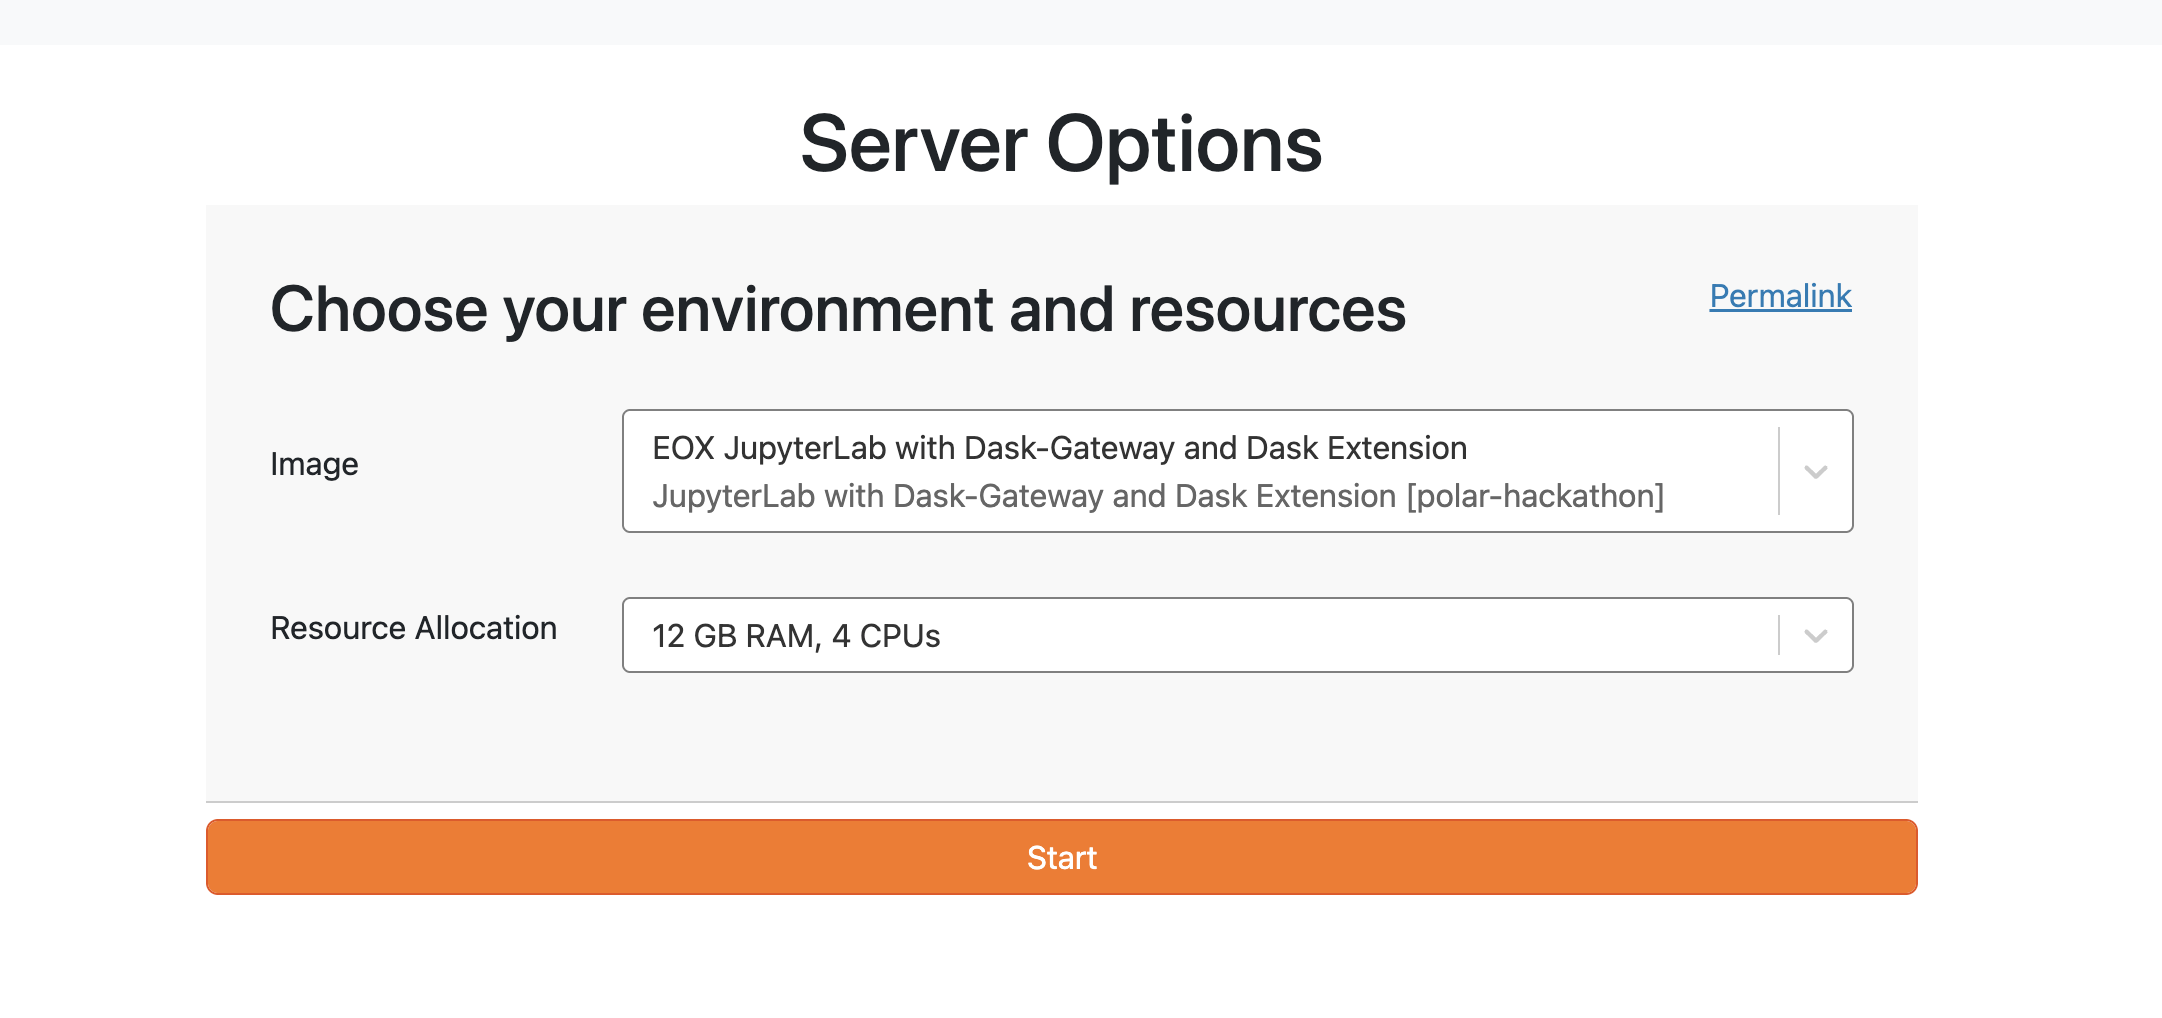
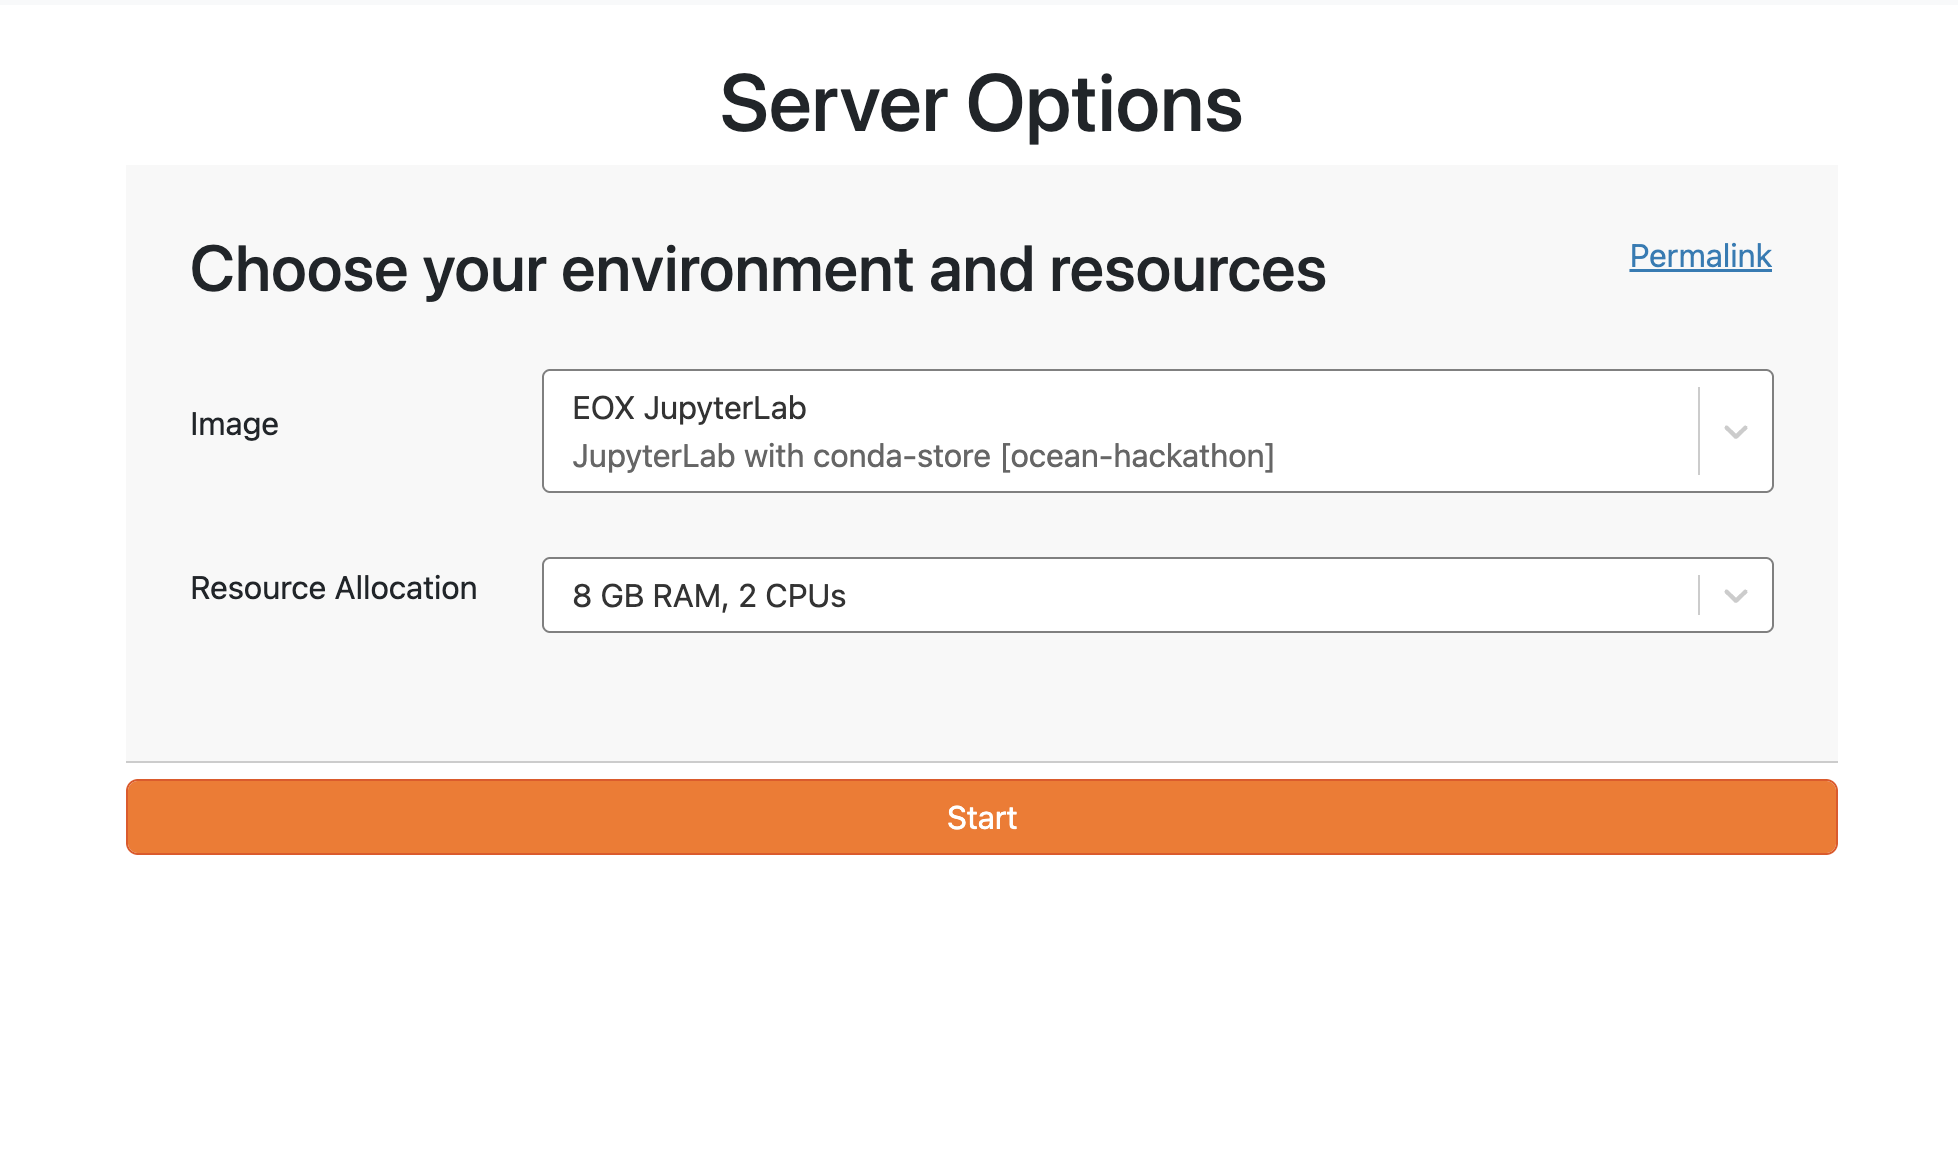
adding workspace details

diff --git a/0_Introduction/setup.md b/0_Introduction/setup.md
@@ -34,18 +34,16 @@ If you are using the provided cloud platform environment these notebooks and env
 
 **You can directly start working in the environment. You can access this cloud environment during the week of the online pre-hackathon and the week after!**
 
-To request an account (only available during the workshop!), use your GitHub account to sign in at: **TBD**.
+To request an account (only available during the workshop!), use your GitHub account to sign in at: https://workspace.ocean-hackathon.hub-otc-sc.eox.at.
 
 To log in, you must have a [GitHub account](https://docs.github.com/en/get-started/start-your-journey/creating-an-account-on-github).
 
-We will need to approve access for you to the online workspaces. You can then directly clone and open this workshop by following this link: **TBD**.
+We will need to approve access for you to the online workspaces. You can then directly clone and open this workshop by following this link: https://workspace.ocean-hackathon.hub-otc-sc.eox.at/hub/user-redirect/git-pull?repo=https%3A%2F%2Fgithub.com%2FESA-EarthCODE%2Focean_hackathon&urlpath=lab%2Ftree%2Focean_hackathon%2F0_Introduction%2Fintro.ipynb&branch=main.
 
-Make sure to select the correct environment size: **TBD**. The original environment-selection example is shown below.
+Make sure to select the correct environment size: **EOX JupyterLab (JupyterLab with conda-store [ocean-hackathon]), 8 GB RAM, 2 CPUs**. The original environment-selection example is shown below.
 
 ![env](../static/jhub-env.png)
 
 See the [introduction to the EDC workspace](./Workspace/workspace.md) for more details.
 
-After you enter the environment and open a notebook, you might be asked to select a kernel. The workshop kernel name is **TBD**.
-
-![kernel](../static/kernel.png)
+After you enter the environment and open a notebook, you might be asked to select a kernel. The workshop kernel name is **earthcode-cubes**.

diff --git a/0_Introduction/Workspace/workspace.md b/0_Introduction/Workspace/workspace.md
@@ -2,7 +2,7 @@
 
 ## Workshop Access
 
-The Ocean Hackathon uses the EDC workspace and its Pangeo environment. The access URL, account process, available resources, and workshop-specific storage details are **TBD**.
+The Ocean Hackathon uses the EDC workspace and its Pangeo environment. The access URL, account process, available resources, and workshop-specific storage details are in the [setup instructions](../setup.md).
 
 EDC provides a managed JupyterLab environment for accessing and analysing the ocean collections. The notebooks can also run locally using the repository's Pixi or Conda environment; see the [setup instructions](../setup.md).
 
@@ -20,6 +20,6 @@ Together, these tools support workflows that begin with collection discovery, re
 
 ## Choosing Compute Resources
 
-Begin with the smallest EDC environment suitable for the task and inspect array dimensions and chunks before scaling up. Use a local Dask client for development and EDC's Dask Gateway when the workload benefits from multiple workers. Available Gateway resource profiles are **TBD**.
+Begin with the smallest EDC environment suitable for the task and inspect array dimensions and chunks before scaling up. Use a local Dask client for development and EDC's Dask Gateway when the workload benefits from multiple workers.
 
 Continue with [Distributed Computing with Dask](./dask-gateway.ipynb).

diff --git a/5_Hackathon_Code/0_intro.md b/5_Hackathon_Code/0_intro.md
@@ -6,7 +6,7 @@ Please add your hackathon work under `5_Hackathon_Code/`.
 
 The EDC workspace git-puller link is:
 
-**TBD**
+https://workspace.ocean-hackathon.hub-otc-sc.eox.at/hub/user-redirect/git-pull?repo=https%3A%2F%2Fgithub.com%2FESA-EarthCODE%2Focean_hackathon&urlpath=lab%2Ftree%2Focean_hackathon%2F0_Introduction%2Fintro.ipynb&branch=main
 
 This link will clone the repository if it is not already available in your workspace and open the introductory notebook.
 
